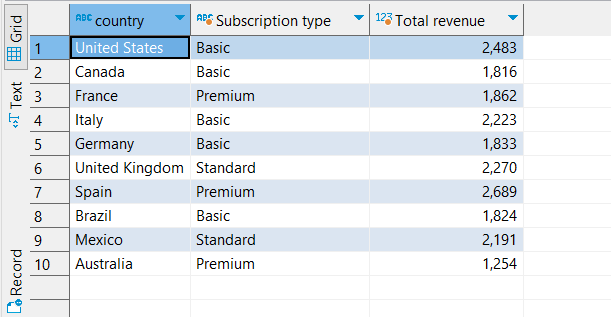
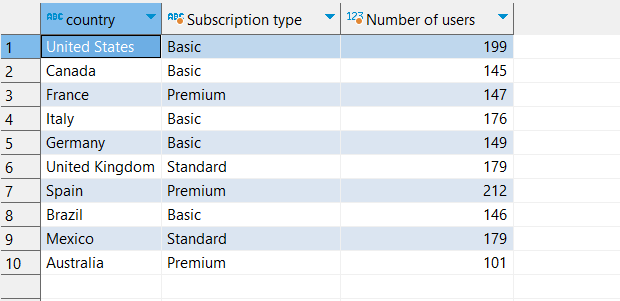
Final changes

Changed region(s): [[0.0, 0.0, 1.0, 1.0]]

diff --git a/README.md b/README.md
@@ -10,23 +10,25 @@ Start the Docker container in detached mode inside the project folder
  $ docker-compose up -d  
 ```
 Make a new database called 'netflix_dw' and create tables using queries located in the SQL folder. Once the database and tables are created, save credentials like dbname, user, password, host, and port. These credentials will be needed to establish connections in the Admin panel.
-Airflow menu
+
+Airflow menu:
 ![alt text](https://github.com/shahinyusifli/data-engineering-netflix/blob/main/Images/connection.png)
 
 After adding the record and confirming that the List Connection works, you can proceed to run all the DAGs. Simply go to the DAGs section and initiate all the pipelines with a single click.
 
-## Tasks and solutions
+## Tasks and Solutions
 ### Task 1
 Construct a normalized data model for the dataset provided.
 ### Solution
 I have created a normalized data model meeting the requirements of each normal form. 
-- I would like to start the 1NF(first normal form). There are not any row order to convey information and we can not see repeated groups. Also, we had a unique primary key. But we can see there is some violation of mixing data types within the "Plan Duration" column which saves "1 Month" data and "1" and "Month" belong to integer and string or char datatypes. Therefore, I prefer to transform this data and eliminate the "Month" value, we can represent years and months with just numbers. 
+- I would like to start the 1NF(first normal form). There are not any row order to convey information and we can not see repeated groups. Also, we had a unique primary key. But we can see there is some violation of mixing data types within the "Plan Duration" column which saves "1 Month" data and "1" and "Month" belong to integer and string or char datatypes respectively. Therefore, I prefer to transform this data and eliminate the "Month" value, we can represent years and months with just numbers. 
 - There is not any violation of the 2NF(second normal form). All non-key attributes of columns have logical relation with the "User ID" key attribute.
-- According to the requirements of the 3NF(third normal form), there should not be any transient dependency between non-key attributes. But we can notice this dependency in the description section of columns in the task pdf. Especially, we can understand the transient dependency between the "Revenue" and "Subscription Type" columns with this statement "Monthly Revenue: Fee receivable for the given subscription type". It means "Revenue" depending on the User with the User's Subscription Type. In other words, we can describe it as {User ID} → {Subscription Type} → {Revenue}. For meeting the requirements of the third normal form, I have created a new table that consists of ID, Subscription, and Revenue columns. 
-- BCNF(Boyce Codd's normal form) can be beneficial for eliminating future data inconsistency problems. We can ensure the quality of queries by implementing a super key concept. I have created new tables for the Device, Country, and Gender columns. 
+- According to the requirements of the 3NF(third normal form), there should not be any transient dependency between non-key attributes. But we can notice this dependency in the description section of columns in the task pdf. Especially, we can understand the transient dependency between the "Revenue" and "Subscription Type" columns with this statement "Monthly Revenue: Fee receivable for the given subscription type". It means "Revenue" depending on the User with the User's Subscription Type. In other words, we can describe it as {User ID} → {Subscription Type} → {Revenue}. For meeting the requirements of the third normal form, I have created a new table that consists of ID, Subscription, Plan_Duration, and Revenue columns. 
+- BCNF(Boyce Codd's normal form) can be beneficial for eliminating future data inconsistency problems. We can ensure the quality of queries by implementing a super key concept. I have created new tables for the Device, Country, and Gender columns for this purpose. 
 
 
-After implementing these normal forms, I have to decide to implement data warehousing concepts because queries in Task 4 look like queries for the data analytics process. I have created relevant dimensions and fact tables considering all normal forms, final schema can be found below:
+After implementing these normal forms, I have to decide to implement data warehousing concepts because queries in Task 4 look like queries for the data analytics process. Therefore, I have created relevant dimensions and fact tables considering all normal forms. Also, final schema can be found below:
+
 ![alt text](https://github.com/shahinyusifli/data-engineering-netflix/blob/main/Images/schema_netflix_dw.png)
 
 
@@ -39,30 +41,31 @@ I have selected PostgreSQL, Airflow, and Python to accomplish this task. Postgre
 ![alt text](https://github.com/shahinyusifli/data-engineering-netflix/blob/main/Images/country_pipeline.png)
 - device_pipeline: Extract and Load unique variables from the Device column of the dataset to the Device Dimension of the data warehouse. We can see the task in the middle which serves to detect new or outlined data.
 ![alt text](https://github.com/shahinyusifli/data-engineering-netflix/blob/main/Images/device_pipeline.png)
-- fact_sales_pipeline: Extract, Transform, and Load data from User_ID, Subscription Type, Country, Device, and Last Payment Date column of the dataset to the Sales Fact table. Also, all columns are mapped to foreign keys. In the load task, the existing of subscription, country, and device mapped values are checked. We had a formatting task that convert incoming date values to the recommended date format of PostgreSQL also, there is an anomaly detection with compares incoming values with values in a predefined JSON file.
+- fact_sales_pipeline: Extract, Transform, and Load data from User_ID, Subscription Type, Country, Device, and Last Payment Date column of the dataset to the Sales Fact table. Also, all columns are mapped to foreign keys. In the load task, the existing of subscription, country, and device mapped values are checked. We had a formatting task that convert incoming date values to the recommended date format of PostgreSQL.
 ![alt text](https://github.com/shahinyusifli/data-engineering-netflix/blob/main/Images/sales_fact_table_pipeline.png)
 - gender_pipeline: Extract and Load gender variables from the Gender column of the dataset to the Gender Dimension of the data warehouse. We can see there is anomaly detection task before loading values to data warehouse which check incoming values with values in JSON file.
 ![alt text](https://github.com/shahinyusifli/data-engineering-netflix/blob/main/Images/genders_pipeline.png)
-- populate_time_dimension: This pipeline consists of one task which is responsible for generating a calendar table in 2 years range. Also, common table expression (CTE) is used to define the start and end dates for the range.
+- populate_time_dimension: This pipeline consists of one task which is responsible for generating a calendar table in 2 years range. Also, common table expression (CTE) is used to define the start and end dates for this range.
 ![alt text](https://github.com/shahinyusifli/data-engineering-netflix/blob/main/Images/calendar_pipeline.png)
 - subscription_pipeline: Extract and Load variables from the Subscription Type, Revenue, and Plan Duration columns of the dataset to the Subscription Dimension of the data warehouse. The objective is to create a comprehensive table displaying all potential combinations of Revenue and Subscription, derived from the dataset, to facilitate analysis of transient dependencies as outlined in the column explanations
 ![alt text](https://github.com/shahinyusifli/data-engineering-netflix/blob/main/Images/subscription_pipeline.png)
-- user_pipeline: Extract User related information such as User ID, Join Date, Country, Age, Gender, Active Profiles, Household Profile Ind, Movies Watched, Series Watched to User Dimension. Also, Gender data is transformed with ID of Gender Dimension.
+- user_pipeline: Extract User related information such as User ID, Join Date, Age, Gender, Active Profiles, Household Profile Ind, Movies Watched, Series Watched to User Dimension. Also, Gender data is transformed with ID of Gender Dimension.
 ![alt text](https://github.com/shahinyusifli/data-engineering-netflix/blob/main/Images/users_pipeline.png)
 
 ### Task 3
 What control measures could be deployed here to ensure the correctness of data? Do you notice something odd about the dataset provided?
 ### Solutions 
 There are some control measures that can be used for the correctness of data
-- Control measure for "Plan Duration": As I mentioned "Plan Duration" can violate the first normal form. Therefore, it is transformed into subscription_pipeline.
+- Control measure for "Plan Duration": As I mentioned "Plan Duration" can violate the first normal form. Therefore, it is transformed inside subscription_pipeline.
 - Control measure for "Ages": There are some outlined data such as 107 and 904 in the "Ages" column of the dataset. 107 can be acceptable but 904 is not. Therefore, rows are deleted if the age is more than 110. This transformation is done in user_pipeline and fact_sales_pipeline.
-- Control measure for pipelines: I have applied detecting anomalies in some dimension tables which can check predefined values in json files. It can help detect outliers in categorical data.
+- Control measure for pipelines: I have applied detecting anomalies in some dimension tables which can be checked with predefined values in JSON files. It can help detect outliers in categorical data.
 
 There is some anomaly in the dataset. I think each type of subscription should have a constant Revenue values but range of Revenue values are listed from 10 to 15 for each subscription. It may happen during the generation of data.
 
 ### Task 4
 Write queries for answering the following questions:
 - a.The most profitable country for Netflix.
+
  Query:
  ```sql
 SELECT
@@ -84,13 +87,15 @@ Result:
 
 ![alt text](https://github.com/shahinyusifli/data-engineering-netflix/blob/main/Images/result_of_first_task.png)
 - b. The most popular packages per country.
+It can be defined with number of users.
+
  Query:
  ``` sql
  WITH SubscriptionRevenue AS (
     SELECT
         sf.country_id,
         sd.subscription AS "Subscription type",
-        SUM(sd.revenue) AS "Total revenue"
+        COUNT(sf.userid) AS "Number of users"
     FROM
         public.salesfact sf
     JOIN
@@ -101,21 +106,22 @@ Result:
 SELECT
     cd.country,
     sr."Subscription type",
-    sr."Total revenue"
+    sr."Number of users"
 FROM
     public.countrydimension cd
 JOIN
     SubscriptionRevenue sr ON cd.id = sr.country_id
 WHERE
-    sr."Total revenue" = (
-        SELECT MAX("Total revenue") FROM SubscriptionRevenue WHERE country_id = sr.country_id
+    sr."Number of users" = (
+        SELECT MAX("Number of users") FROM SubscriptionRevenue WHERE country_id = sr.country_id
     );
 ```
 Result: 
 
 ![alt text](https://github.com/shahinyusifli/data-engineering-netflix/blob/main/Images/result_of_second_task.png)
-- c. Which country has the potential for improving earnings if Netflix starts charging subscribers an additional fee for sharing Netflix households outside of their own? This involves examining profits generated by multiple households linked to a single contract. For two selected households, their profits could be doubled to if we change policy to sharing user. We can see result with 
- Query:
+- c. Which country has the potential for improving earnings if Netflix starts charging subscribers an additional fee for sharing Netflix households outside of their own? 
+
+This involves examining profits generated by multiple households linked to a single contract. For two selected households, their profits could be doubled to if we change policy to sharing user. We can see result with this SQL query:
  ``` sql
  SELECT
     cd.country as "Country",
@@ -139,8 +145,8 @@ limit 1;
 
  ![alt text](https://github.com/shahinyusifli/data-engineering-netflix/blob/main/Images/result_of_third_task.png)
 - d. A report showing the popularity of Movies and Series in different customer segments and the device used to consume, across the different markets the company operates in.
- Query:
 
+ Query:
 ``` sql
 SELECT
     cd.country "Country",
